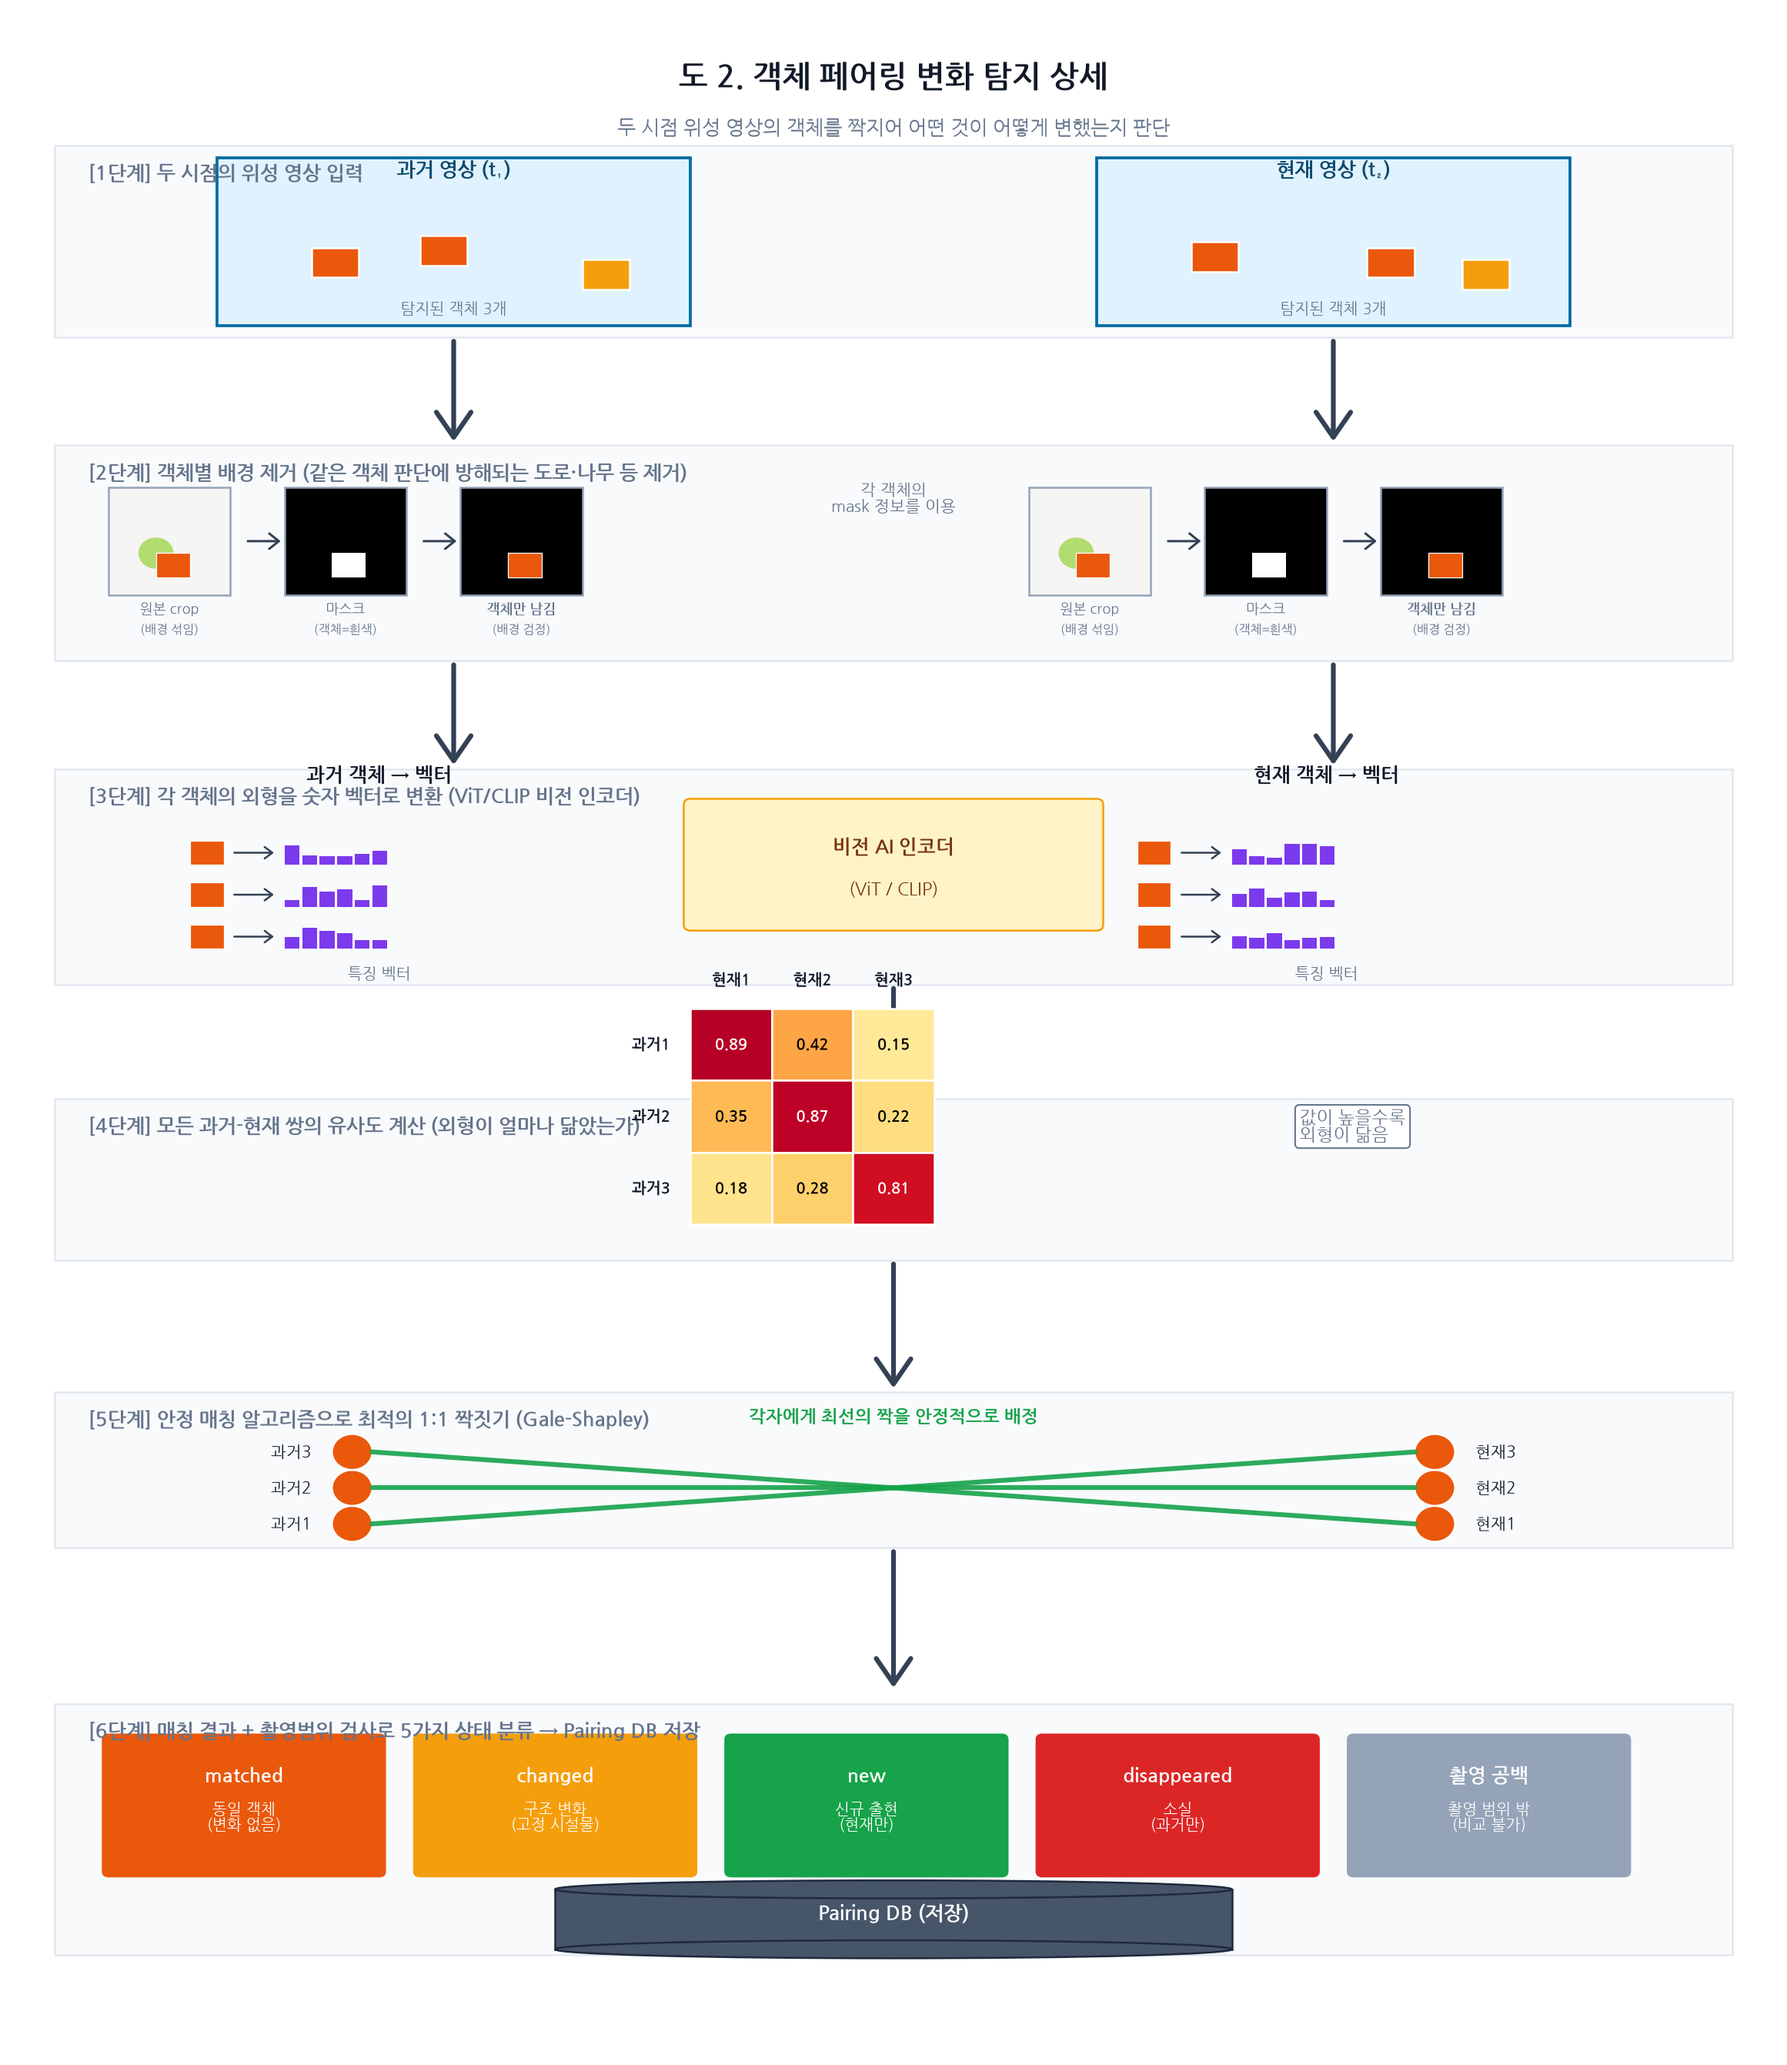
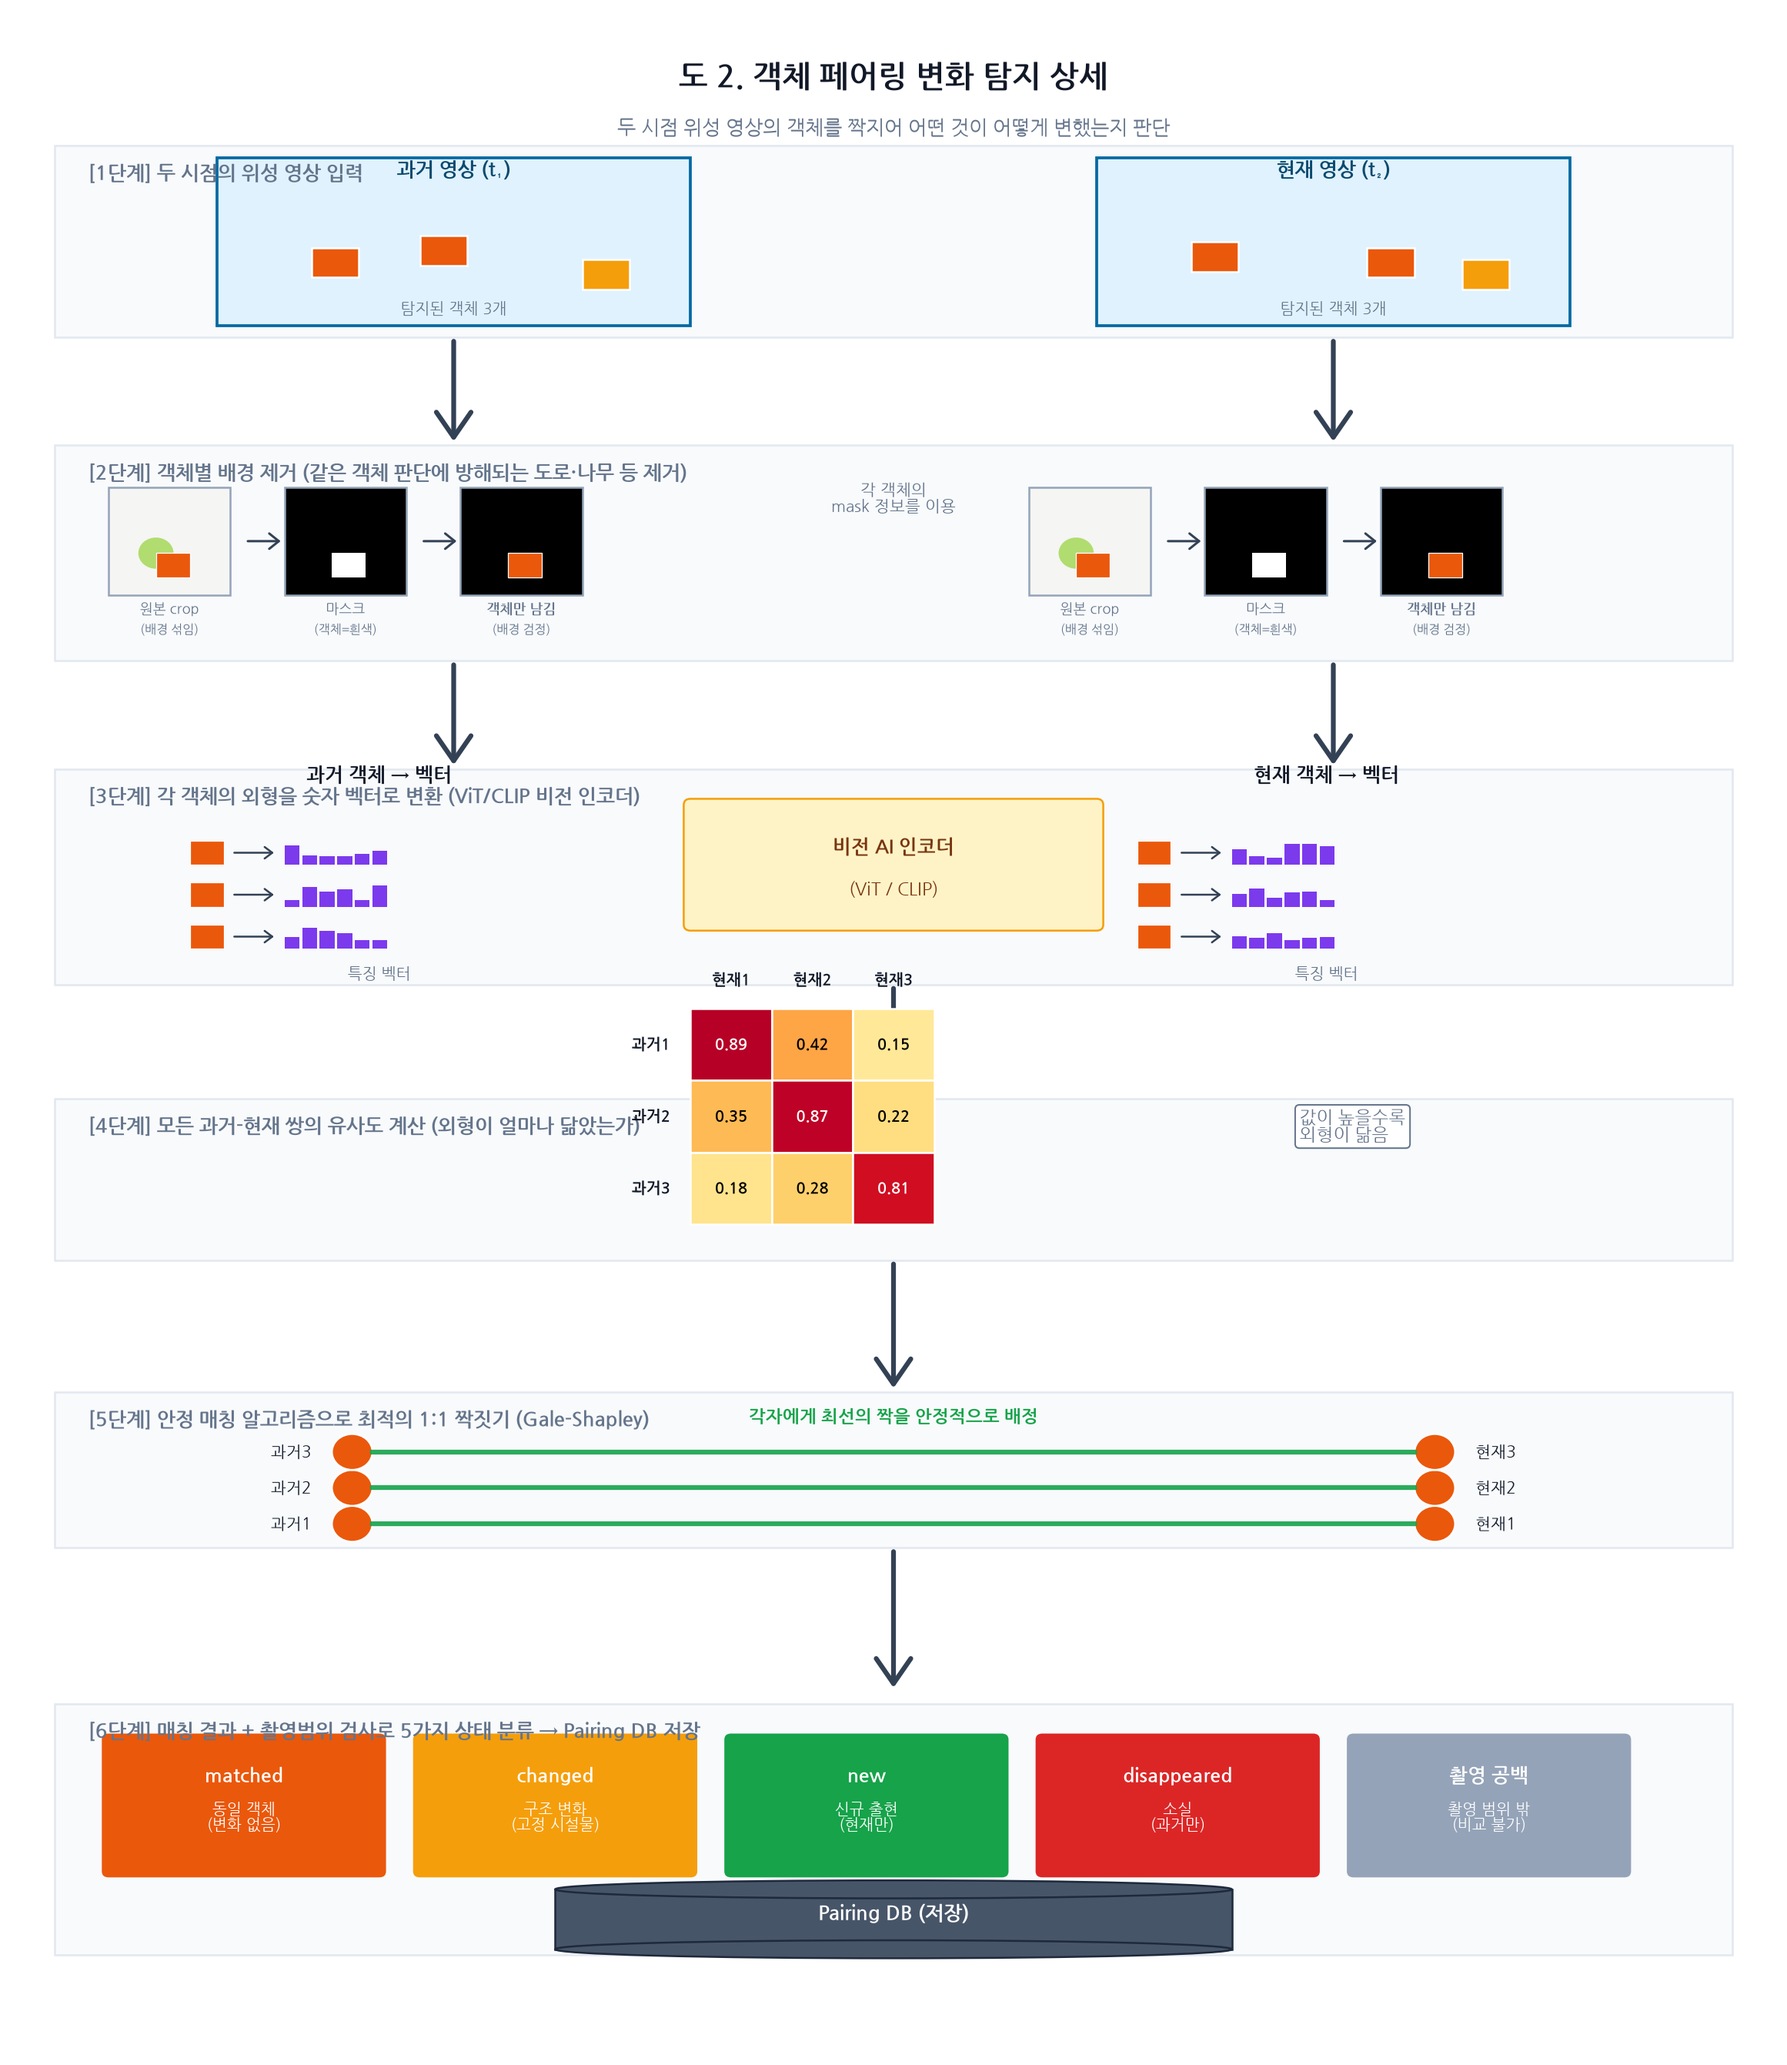
Fix Fig 2 matching lines — align with similarity matrix values
이전 그림에서 매칭 선이 대각선(교차)으로 그려져 있었음.
그러나 유사도 행렬 상 최고값은 대각 요소(과거i vs 현재i)에 있음:
  - 과거1 vs 현재1 = 0.89 (최고)
  - 과거2 vs 현재2 = 0.87 (최고)
  - 과거3 vs 현재3 = 0.81 (최고)

Gale-Shapley 안정 매칭 결과도 자연스럽게 대각(직선) 매칭이 되므로
매칭 선을 straight horizontal로 수정.

Changed region(s): [[0.2171, 0.6808, 0.7752, 0.7427]]

diff --git a/build_fig2_v2.py b/build_fig2_v2.py
@@ -225,10 +225,10 @@ for i in range(3):
     ax.add_patch(Circle((10.5, cy), 0.15, facecolor=PAIR, edgecolor="white", lw=1))
     ax.text(10.8, cy, f"현재{i+1}", ha="left", va="center", fontsize=8.5, color=TEXT)
 
-# 매칭 선 (대각선 매칭)
-ax.plot([2.65, 10.35], [4.4, 5.0], color=GREEN, lw=2.5, alpha=0.9)
-ax.plot([2.65, 10.35], [4.7, 4.7], color=GREEN, lw=2.5, alpha=0.9)
-ax.plot([2.65, 10.35], [5.0, 4.4], color=GREEN, lw=2.5, alpha=0.9)
+# 매칭 선 (유사도 행렬 기준: 과거i ↔ 현재i 로 straight matching)
+ax.plot([2.65, 10.35], [4.4, 4.4], color=GREEN, lw=2.5, alpha=0.9)  # 과거1↔현재1 (0.89)
+ax.plot([2.65, 10.35], [4.7, 4.7], color=GREEN, lw=2.5, alpha=0.9)  # 과거2↔현재2 (0.87)
+ax.plot([2.65, 10.35], [5.0, 5.0], color=GREEN, lw=2.5, alpha=0.9)  # 과거3↔현재3 (0.81)
 
 # 매칭 이름 표시
 ax.text(6.5, 5.25, "각자에게 최선의 짝을 안정적으로 배정",
